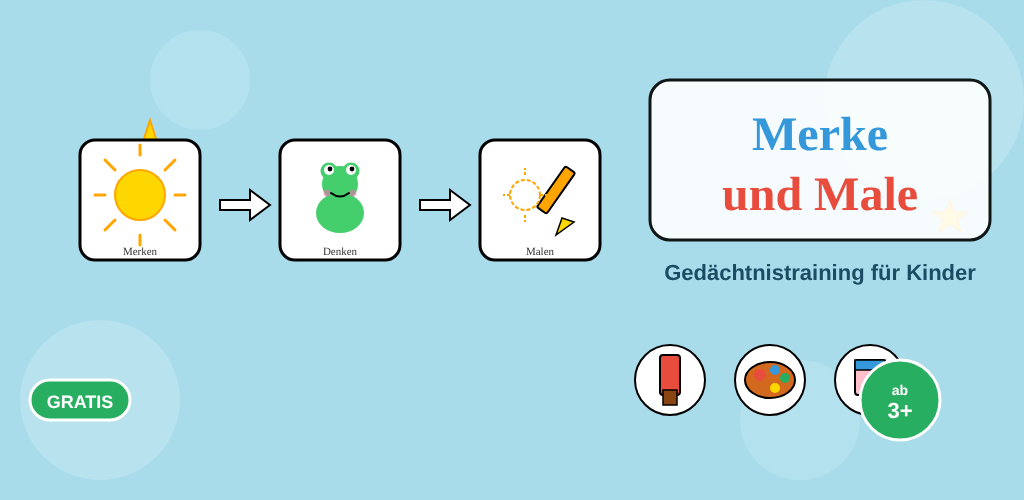
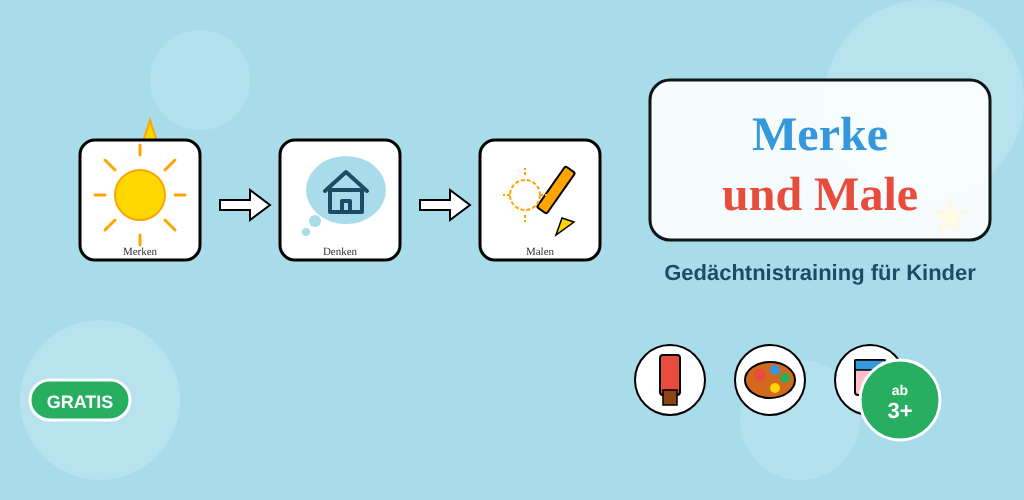
feat: Web-Install-Hinweis verkleinern, Store-Grafik mit Haus-Motiv
- WebInstallBanner: nur noch eine Textzeile in Primärfarbe (kein Rahmen,
  kein Emoji, kein Untertitel); webInstall.subtitle aus allen Locales entfernt
- feature-graphic.svg: "Denken"-Karte zeigt Denkblase mit Haus statt Mali;
  PNGs (assets + public) neu generiert

Claude-Session: https://claude.ai/code/session_017fxbsNALrmwMj7LGMDPLw2

Changed region(s): [[0.2812, 0.3, 0.375, 0.48]]

diff --git a/components/WebInstallBanner.tsx b/components/WebInstallBanner.tsx
@@ -1,10 +1,10 @@
 import React from 'react';
-import { View, Text, StyleSheet, TouchableOpacity, Linking } from 'react-native';
+import { Text, StyleSheet, TouchableOpacity, Linking } from 'react-native';
 import { useTranslation } from '@services/i18n';
 import { useTheme } from '@services/ThemeContext';
 import { isWeb } from '../utils/platform';
 import { getPlayStoreUrl } from '../constants/ExternalLinks';
-import { Spacing, FontSize, FontWeight, FontFamily, BorderRadius } from '../constants/Layout';
+import { Spacing, FontSize, FontWeight, FontFamily } from '../constants/Layout';
 
 /**
  * Nur auf Web sichtbarer Install-Hinweis oberhalb des Spiel-CTAs.
@@ -15,6 +15,9 @@ import { Spacing, FontSize, FontWeight, FontFamily, BorderRadius } from '../cons
  * Installationen konvertiert. Dieser Banner macht die Android-App direkt im
  * sichtbaren Bereich zum Angebot — mit Attributions-Link, damit die Installs
  * in der Play Console als Web-Traffic erkennbar sind.
+ *
+ * Bewusst nur eine dezente Textzeile (kein Rahmen, kein Emoji), damit
+ * "Spiel starten" die einzige auffällige Aktion der Startseite bleibt.
  */
 export default function WebInstallBanner() {
   const { t } = useTranslation();
@@ -31,52 +34,25 @@ export default function WebInstallBanner() {
       onPress={open}
       accessibilityRole="link"
       accessibilityLabel={t('webInstall.title')}
-      style={[styles.container, { backgroundColor: colors.surface, borderColor: colors.primary }]}
+      style={styles.container}
     >
-      <Text style={styles.icon}>📲</Text>
-      <View style={styles.textBlock}>
-        <Text style={[styles.title, { color: colors.primary }]} numberOfLines={1}>
-          {t('webInstall.title')}
-        </Text>
-        <Text style={[styles.subtitle, { color: colors.text.secondary }]} numberOfLines={1}>
-          {t('webInstall.subtitle')}
-        </Text>
-      </View>
-      <Text style={[styles.chevron, { color: colors.primary }]}>›</Text>
+      <Text style={[styles.title, { color: colors.primary }]} numberOfLines={1}>
+        {t('webInstall.title')} ›
+      </Text>
     </TouchableOpacity>
   );
 }
 
 const styles = StyleSheet.create({
   container: {
-    flexDirection: 'row',
-    alignItems: 'center',
-    gap: Spacing.sm,
-    marginTop: Spacing.sm,
-    paddingVertical: Spacing.sm,
+    alignSelf: 'center',
+    minHeight: 44,
+    justifyContent: 'center',
     paddingHorizontal: Spacing.md,
-    borderRadius: BorderRadius.lg,
-    borderWidth: 1.5,
-  },
-  icon: {
-    fontSize: 20,
-  },
-  textBlock: {
-    flex: 1,
   },
   title: {
     fontSize: FontSize.sm,
-    fontWeight: FontWeight.bold,
-    fontFamily: FontFamily.bold,
-  },
-  subtitle: {
-    fontSize: FontSize.xs,
-    fontWeight: FontWeight.regular,
-    fontFamily: FontFamily.regular,
-    marginTop: 1,
-  },
-  chevron: {
-    fontSize: 22,
-    fontWeight: FontWeight.bold,
+    fontWeight: FontWeight.semibold,
+    fontFamily: FontFamily.semibold,
   },
 });

diff --git a/components/__tests__/WebInstallBanner.test.tsx b/components/__tests__/WebInstallBanner.test.tsx
@@ -19,14 +19,12 @@ jest.mock('../../services/ThemeContext', () => ({
 import WebInstallBanner from '../WebInstallBanner';
 
 describe('WebInstallBanner', () => {
-  it('zeigt Titel und Untertitel', () => {
+  it('zeigt nur eine dezente Titelzeile', () => {
     const { UNSAFE_getAllByType } = render(<WebInstallBanner />);
-    const texts = UNSAFE_getAllByType(Text)
-      .map((n: any) => n.props.children)
-      .flat();
+    const texts = UNSAFE_getAllByType(Text);
 
-    expect(texts).toContain('webInstall.title');
-    expect(texts).toContain('webInstall.subtitle');
+    expect(texts).toHaveLength(1);
+    expect(texts[0].props.children).toContain('webInstall.title');
   });
 
   it('öffnet den Play Store mit Banner-Attribution', async () => {

diff --git a/CHANGELOG.md b/CHANGELOG.md
@@ -9,6 +9,8 @@ and this project adheres to [Semantic Versioning](https://semver.org/spec/v2.0.0
 
 ### Changed
 
+- Web-Install-Hinweis auf der Startseite als dezente Textzeile statt umrahmter Karte mit Emoji und Untertitel
+- Store-/OG-Grafik: Schritt „Denken" zeigt eine Denkblase mit dem Haus-Motiv des App-Icons statt der Mascot-Figur
 - Startseite entschlackt: „Spiel starten" ist die einzige auffällige Aktion (ohne Dauer-Puls); Tägliche Challenge als dezenter Textlink darunter (ohne ⚡, Farbrahmen, Countdown); Level/Galerie/Freies Malen als einfarbige Textlinks im Footer; Statistik als eine Textzeile statt drei Emoji-Karten; Streak-Badge und schwebende Sterne entfernt — die Serie steht nur noch in Malis Begrüßung
 - Merke-Phase: dünner, einfarbiger Restzeit-Balken statt 80px-Countdown-Kreis mit Gelb/Rot-Warnfarben (war bei 3 s Anzeigezeit dauerhaft im Warnmodus)
 - App-Icon/Splash/Store-Grafik: ruhigeres, entsättigtes Hellblau `#A9DCEB` statt `#60D5FA`
